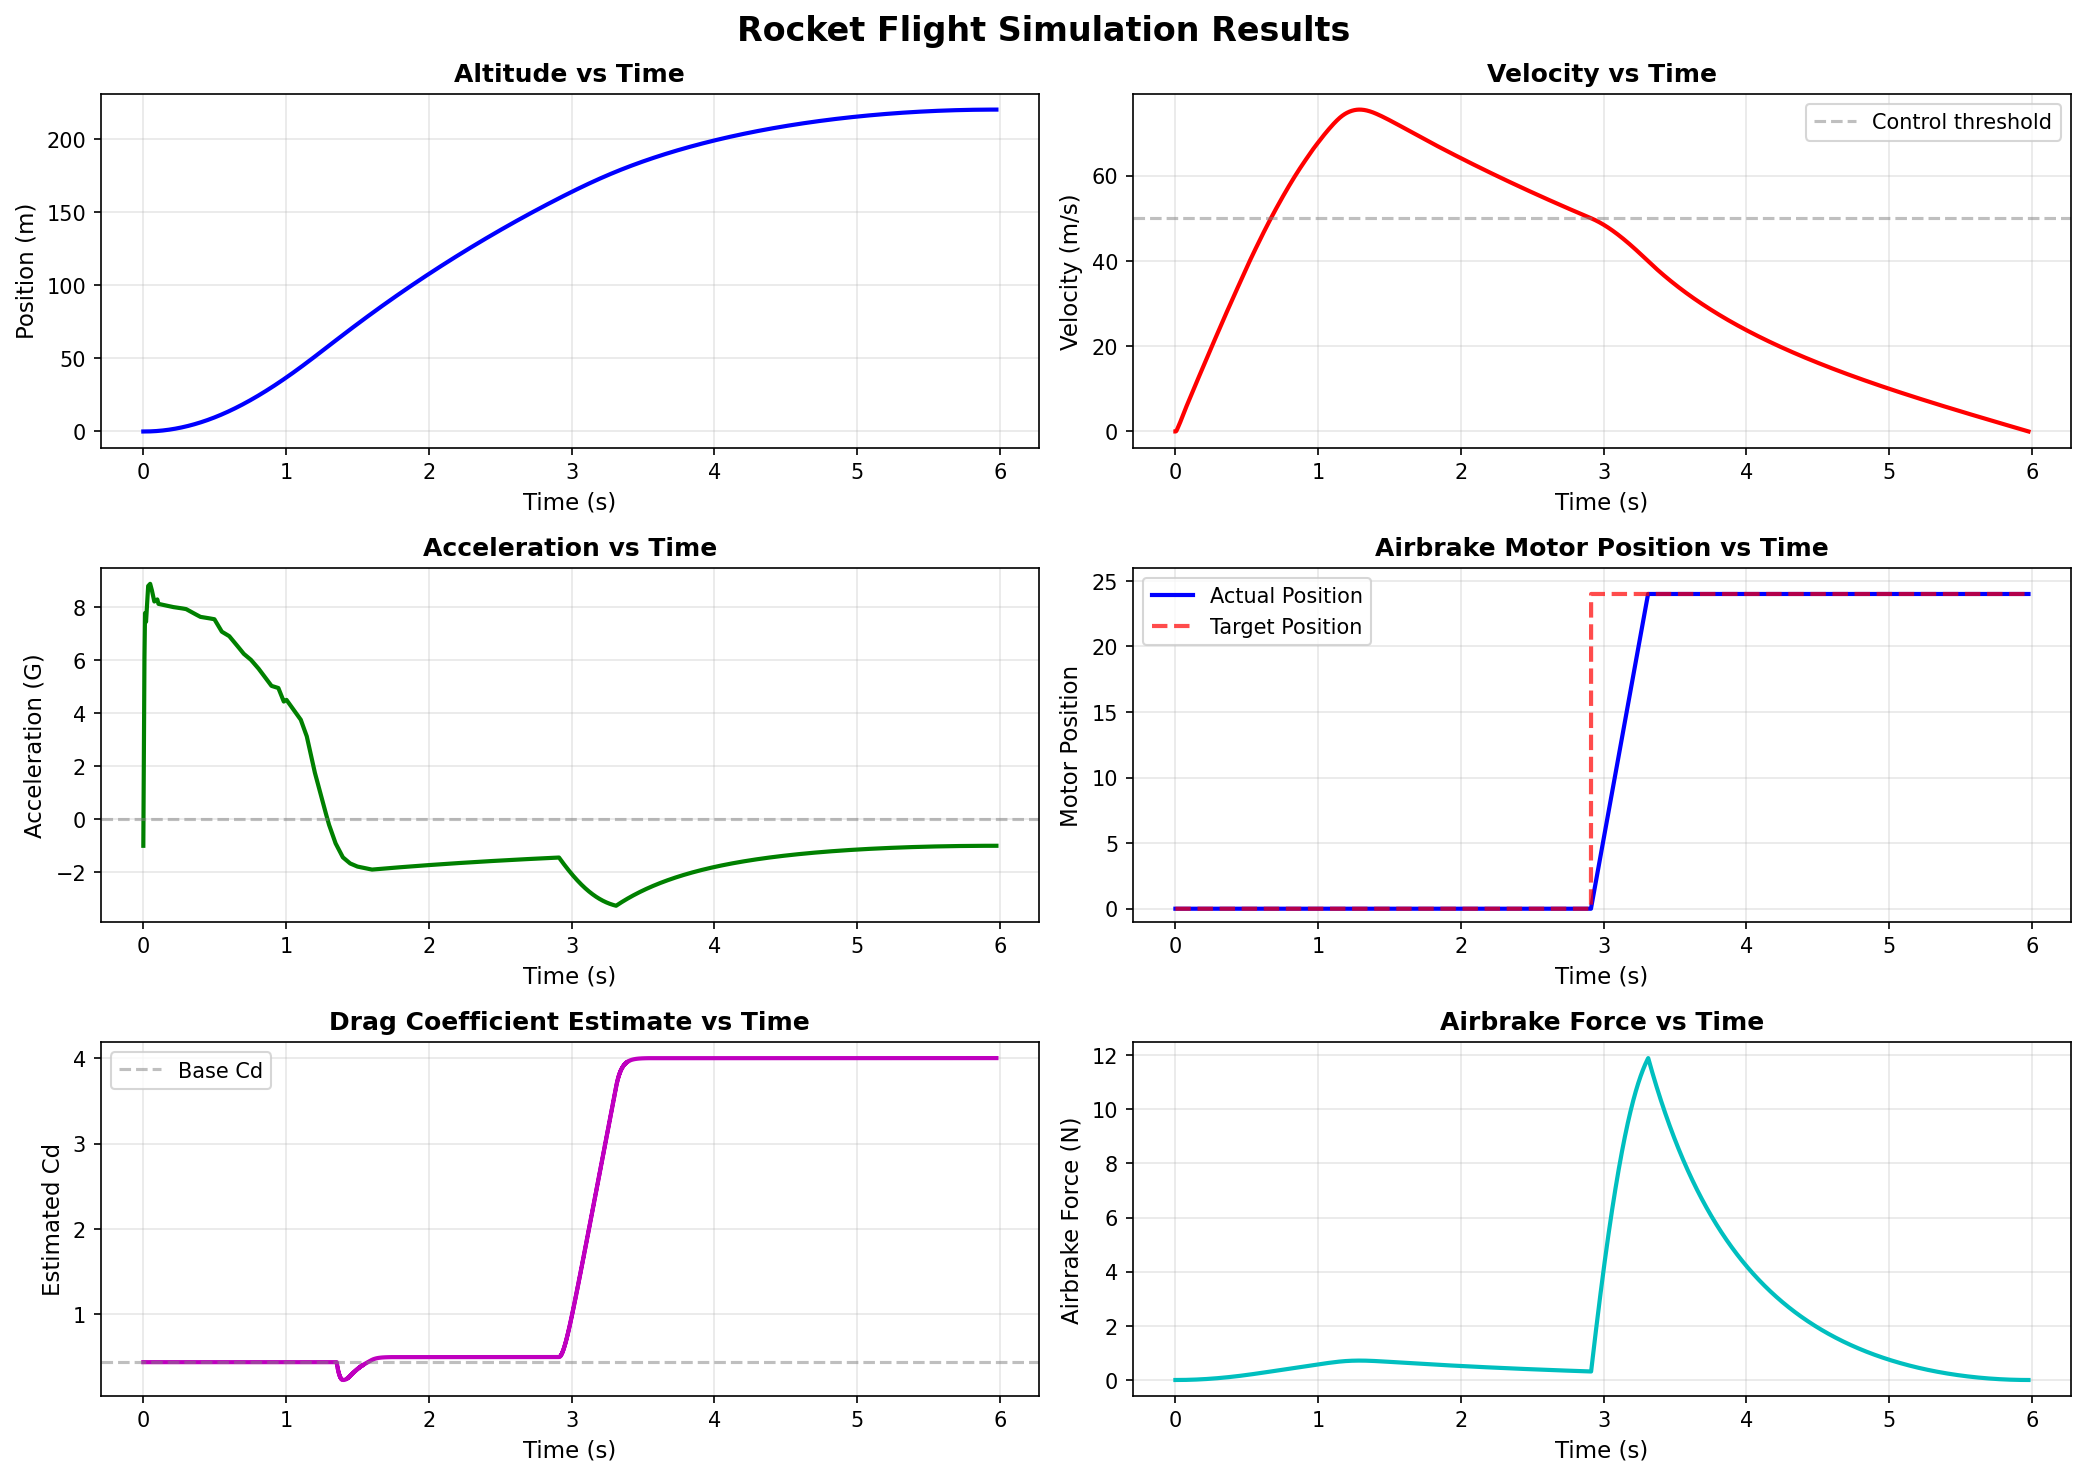
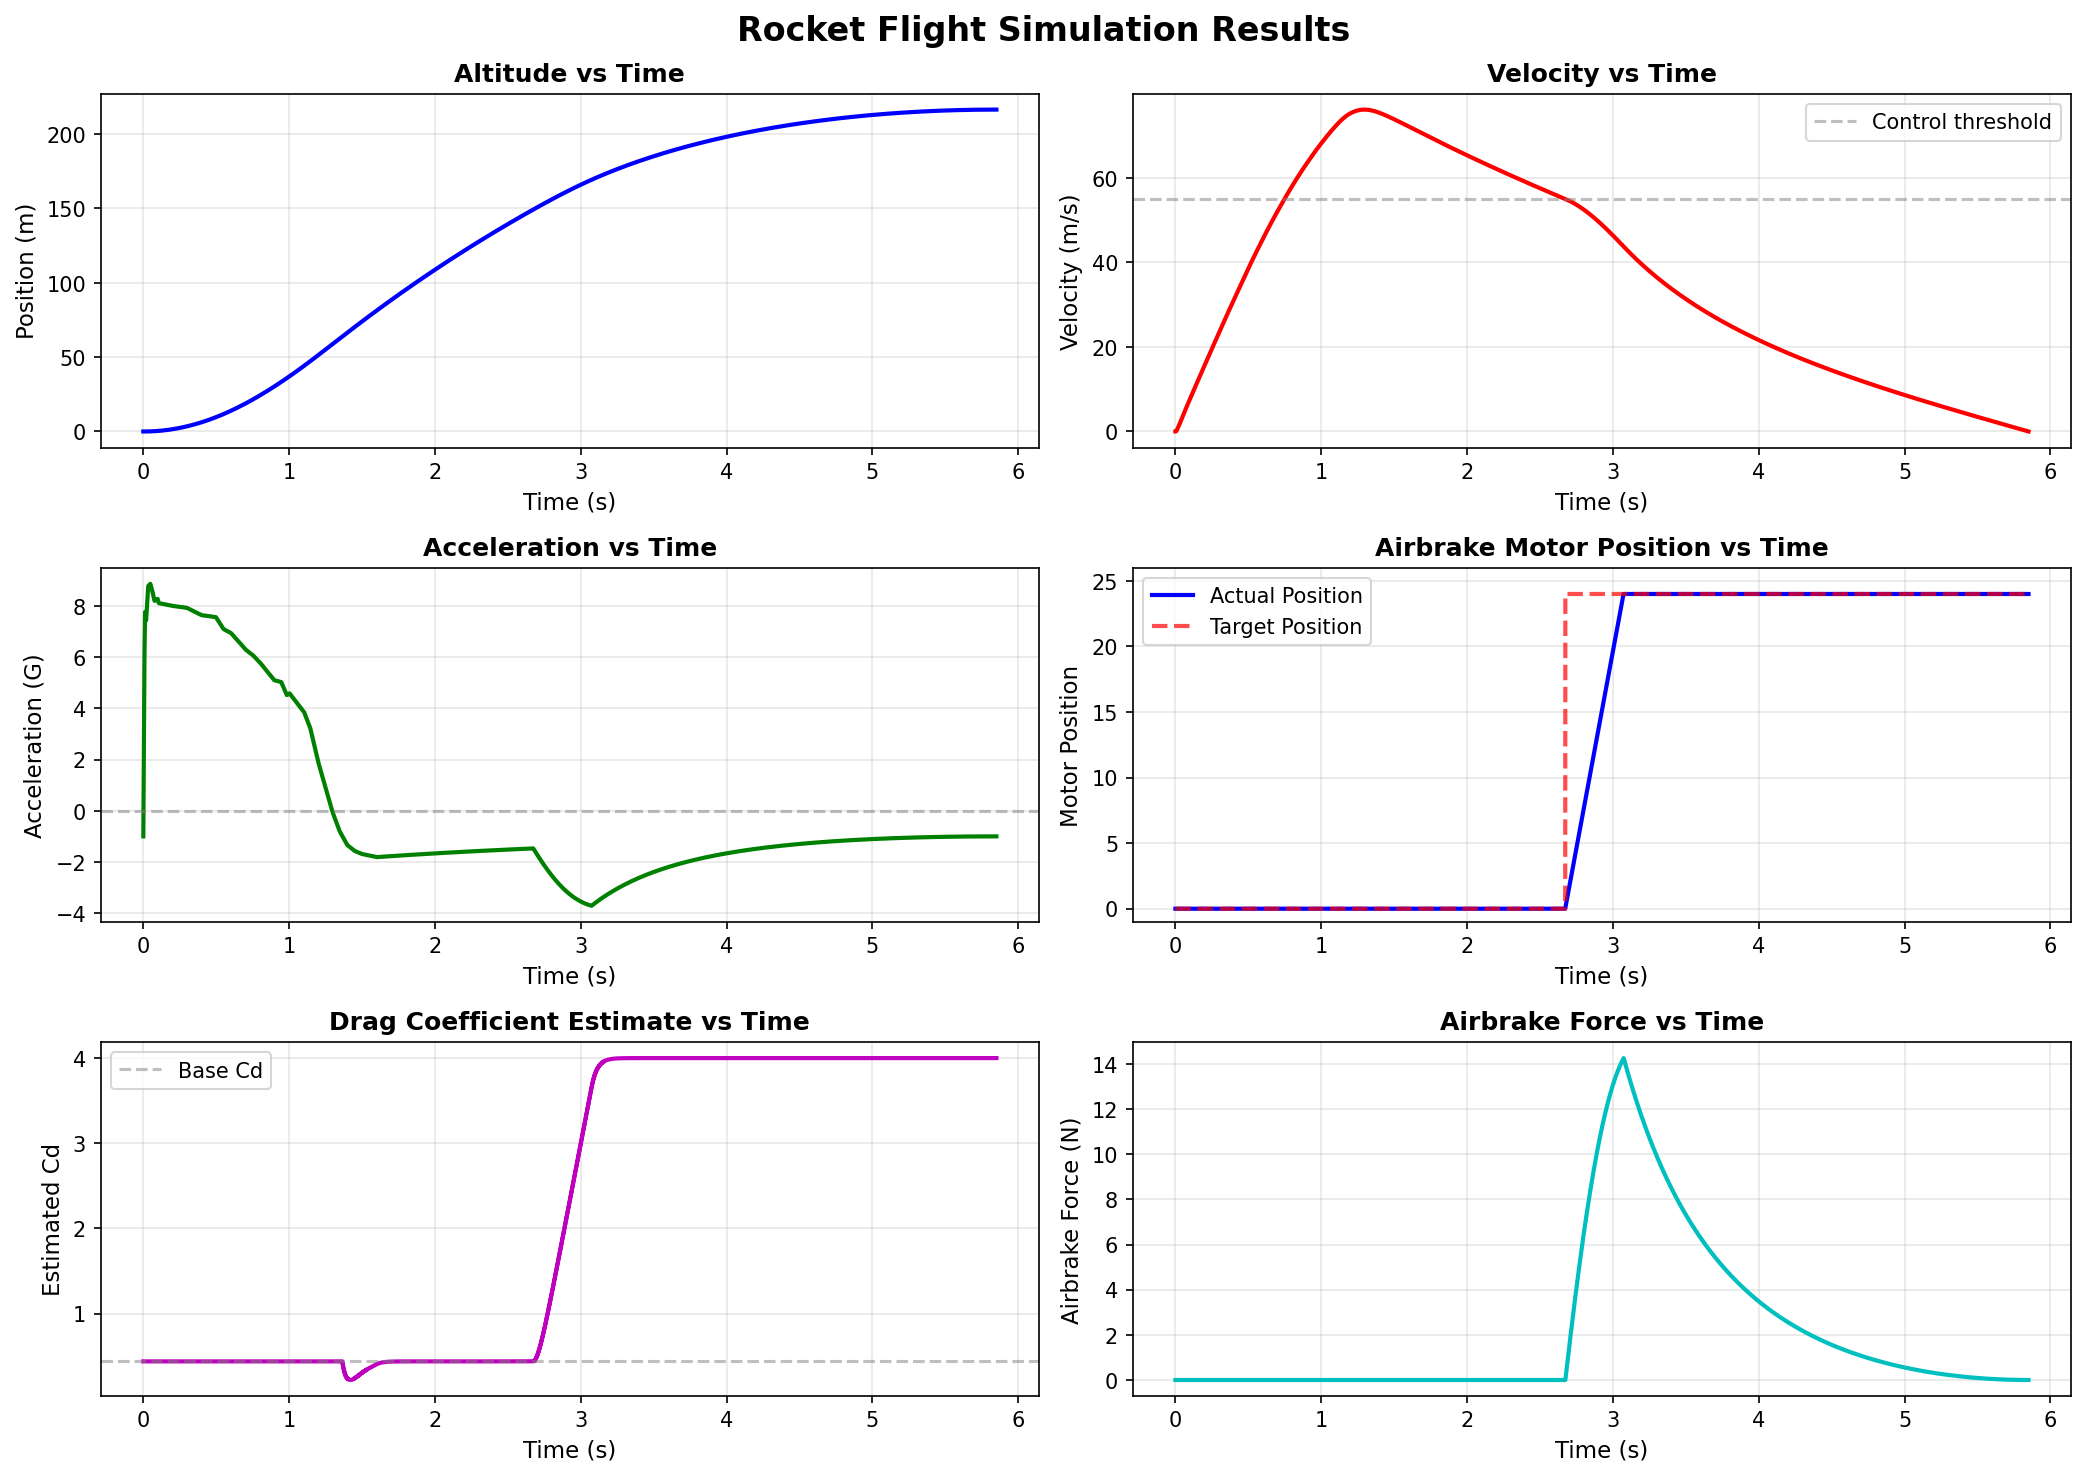
Fix small issue

diff --git a/sim/rocket_sim.py b/sim/rocket_sim.py
@@ -16,13 +16,13 @@ MAX_MOTOR_VEL = 60.0  # units/s (0-24 in 0.4s)
 MOTOR_MIN = 0.0
 MOTOR_MAX = 24.0
 
-# Cd relationship: linear from 0.5 at position 0 to 4.0 at position 24
-CD_MIN = 0.5
+# Cd relationship: linear from BASE_CD at position 0 to 4.0 at position 24
+CD_MIN = BASE_CD
 CD_MAX = 4.0
 
 # Cd estimator parameters (from estimator.cpp)
 ALPHA_CD = 0.05  # Low-pass filter coefficient at 500 Hz
-CONTROL_VEL_START = 50.0  # m/s, velocity threshold for deploying airbrakes
+CONTROL_VEL_START = 55.0  # m/s, velocity threshold for deploying airbrakes
 
 
 class ThrustCurve:
